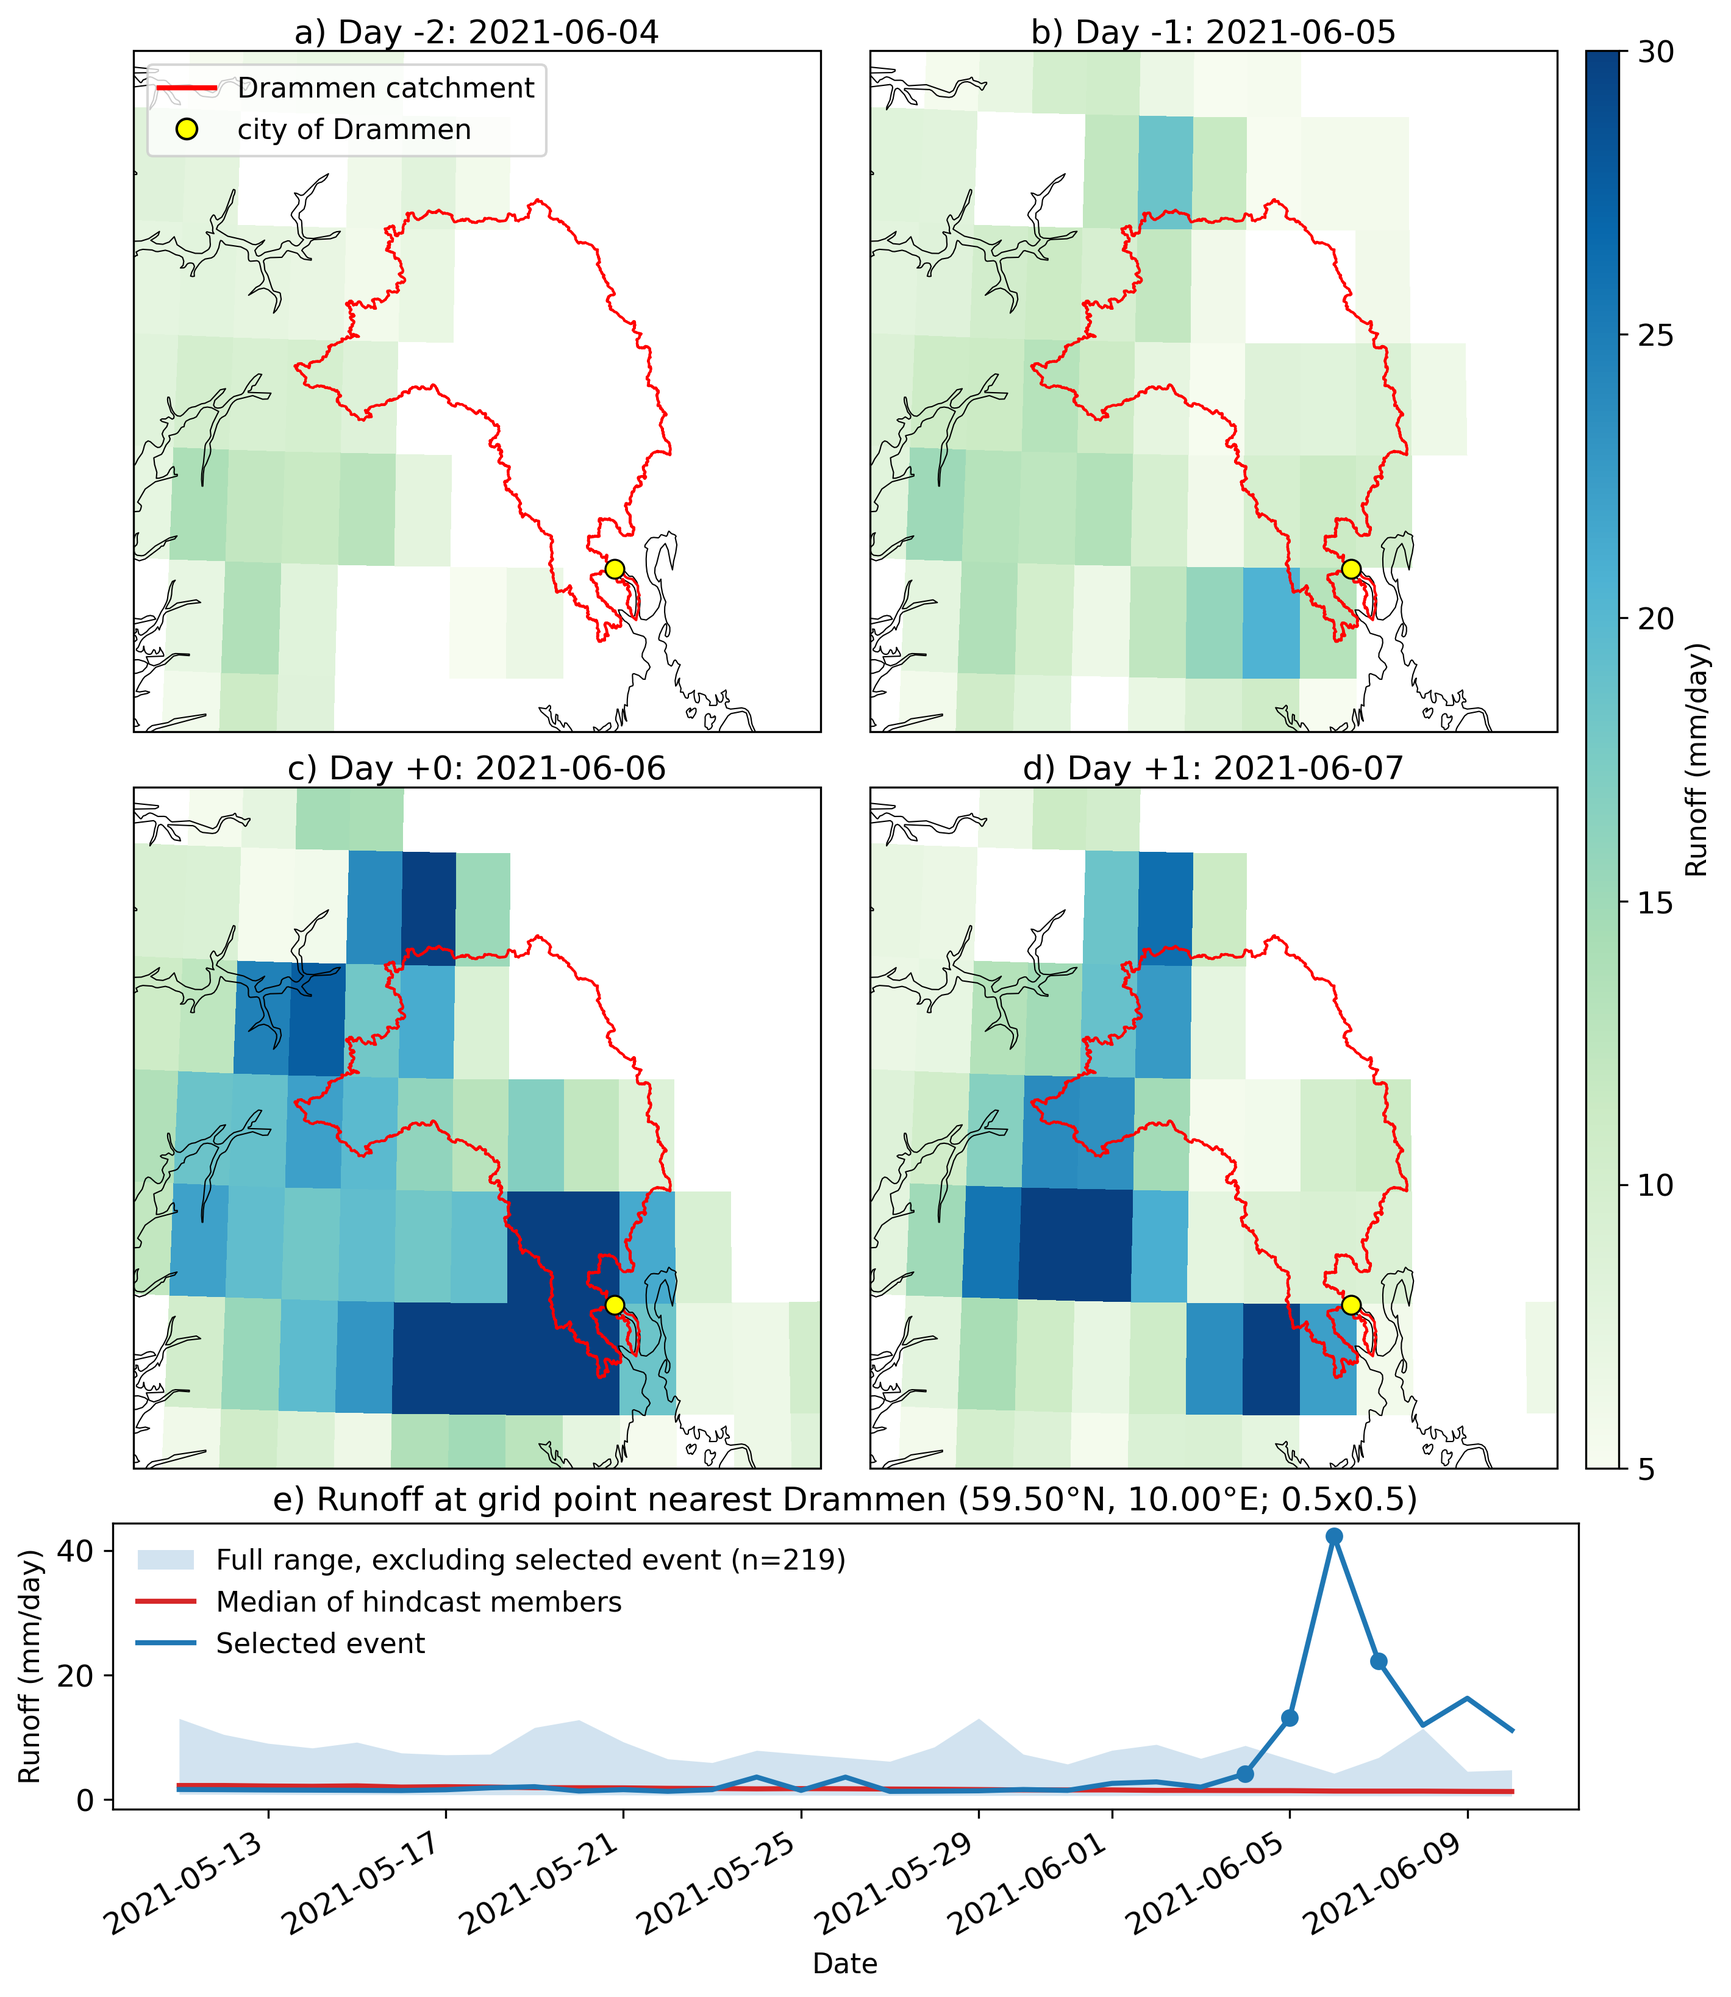
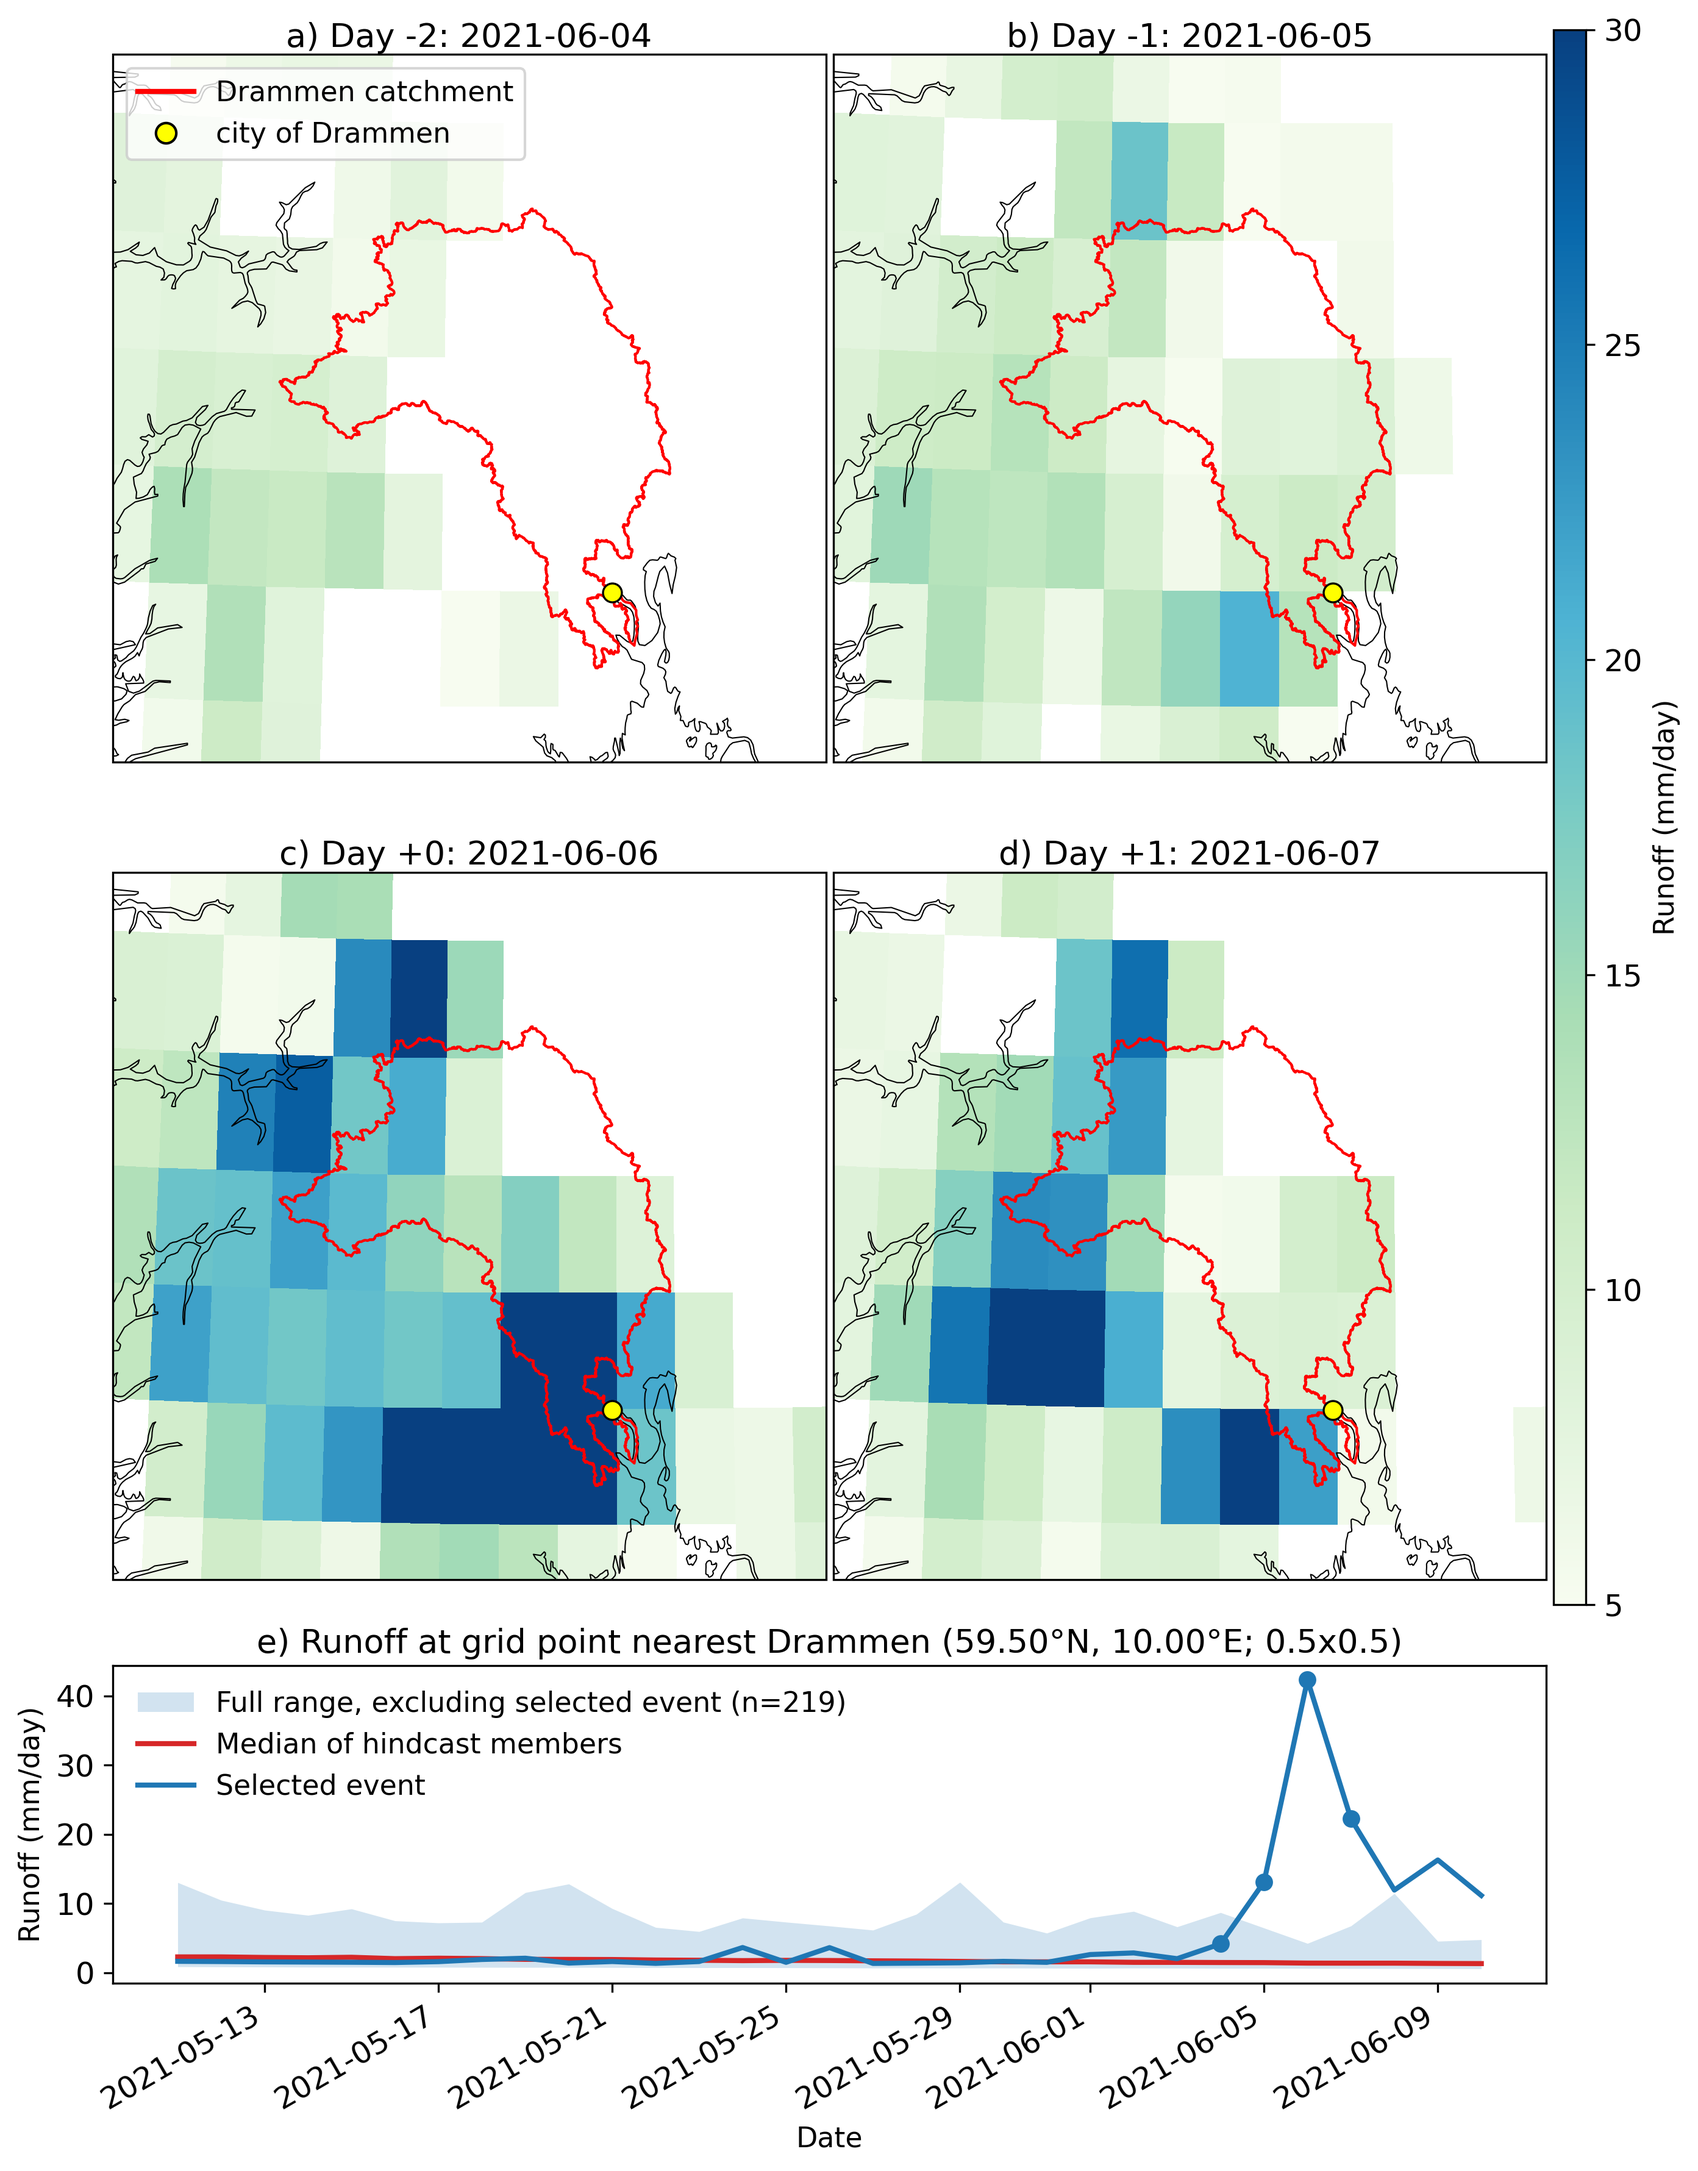
update

diff --git a/code/plot/paper_figs/temp5.py b/code/plot/paper_figs/temp5.py
@@ -64,8 +64,8 @@ S2S_BASE_DIR = Path("/nird/datapeak/NS9873K/etdu/raw/s2s/mars/ecmwf")
 # Figure settings
 # =============================================================================
 
-FIG_WIDTH_IN = 9.2
-FIG_HEIGHT_IN = 10.8
+FIG_WIDTH_IN = 9
+FIG_HEIGHT_IN = 12
 
 MAP_EXTENT = [6, 12, 59, 62]
 MAP_WSPACE = 0.015
